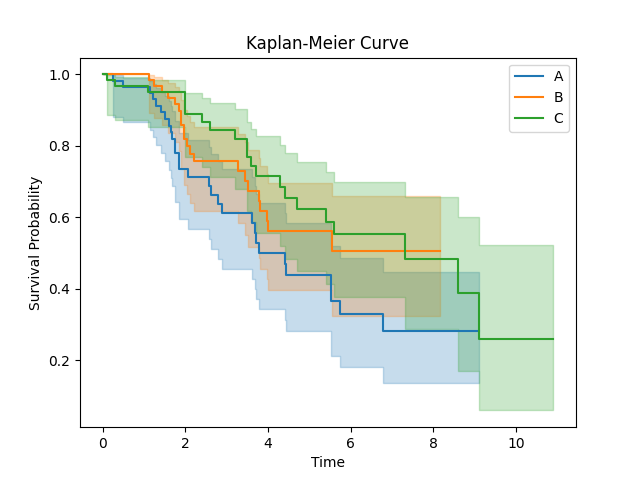
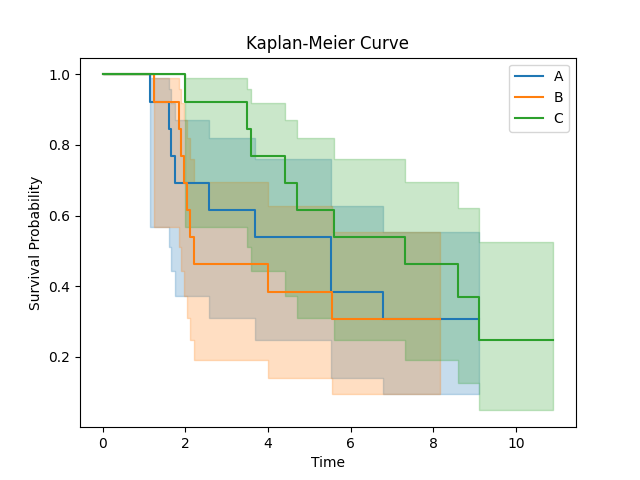
KM excel file  with different data

diff --git a/run.py b/run.py
@@ -3,11 +3,24 @@ import pandas as pd
 from lifelines import KaplanMeierFitter
 import matplotlib.pyplot as plt
 import openpyxl
+import gspread
+from google.oauth2.service_account import Credentials
+
+SCOPE = [
+    "https://www.googleapis.com/auth/spreadsheets",
+    "https://www.googleapis.com/auth/drive.file",
+    "https://www.googleapis.com/auth/drive"
+    ]
+
+CREDS = Credentials.from_service_account_file('creds.json')
+SCOPED_CREDS = CREDS.with_scopes(SCOPE)
+GSPREAD_CLIENT = gspread.authorize(SCOPED_CREDS)
+SHEET = GSPREAD_CLIENT.open('Kaplan-Meier')
 
 # Your code goes here.
 
 # Load the data from the excel file into a DataFrame
-data = pd.read_excel('excel_data/realdata.xlsx')
+data = pd.read_excel('excel_data/realdata2.xlsx')
 
 # Create the Kaplan-Meier object and fit the data
 
